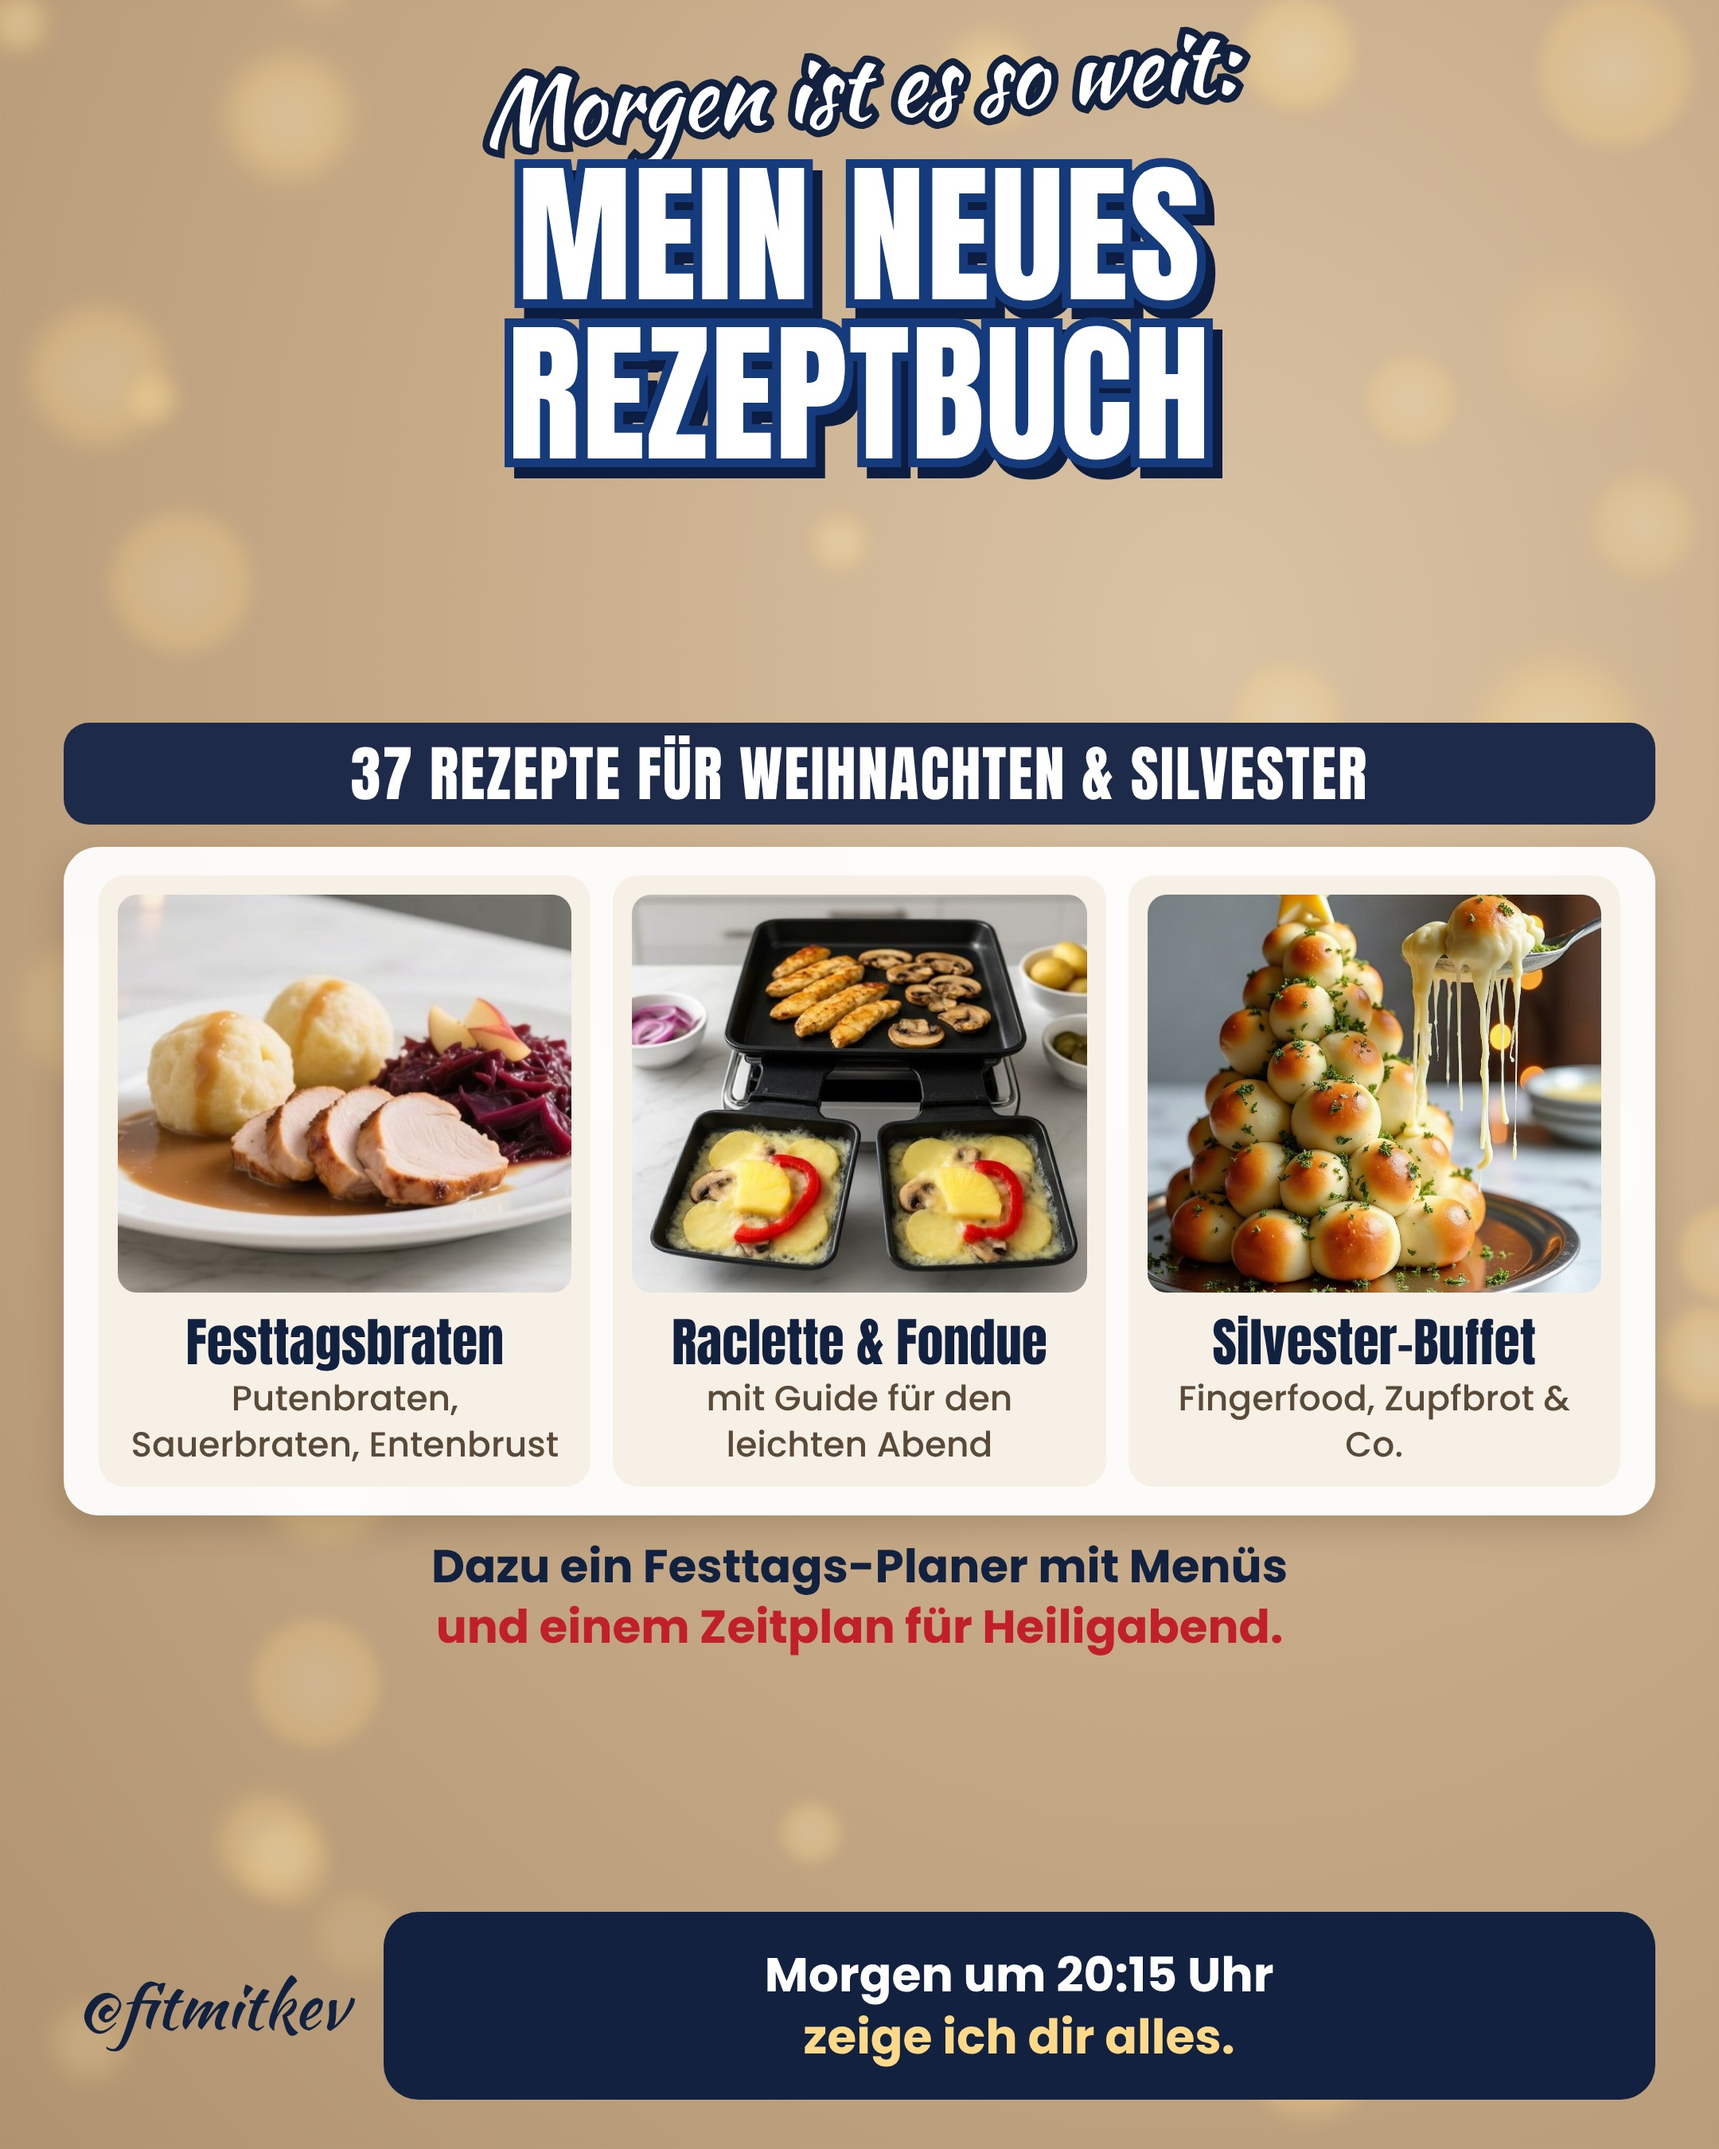
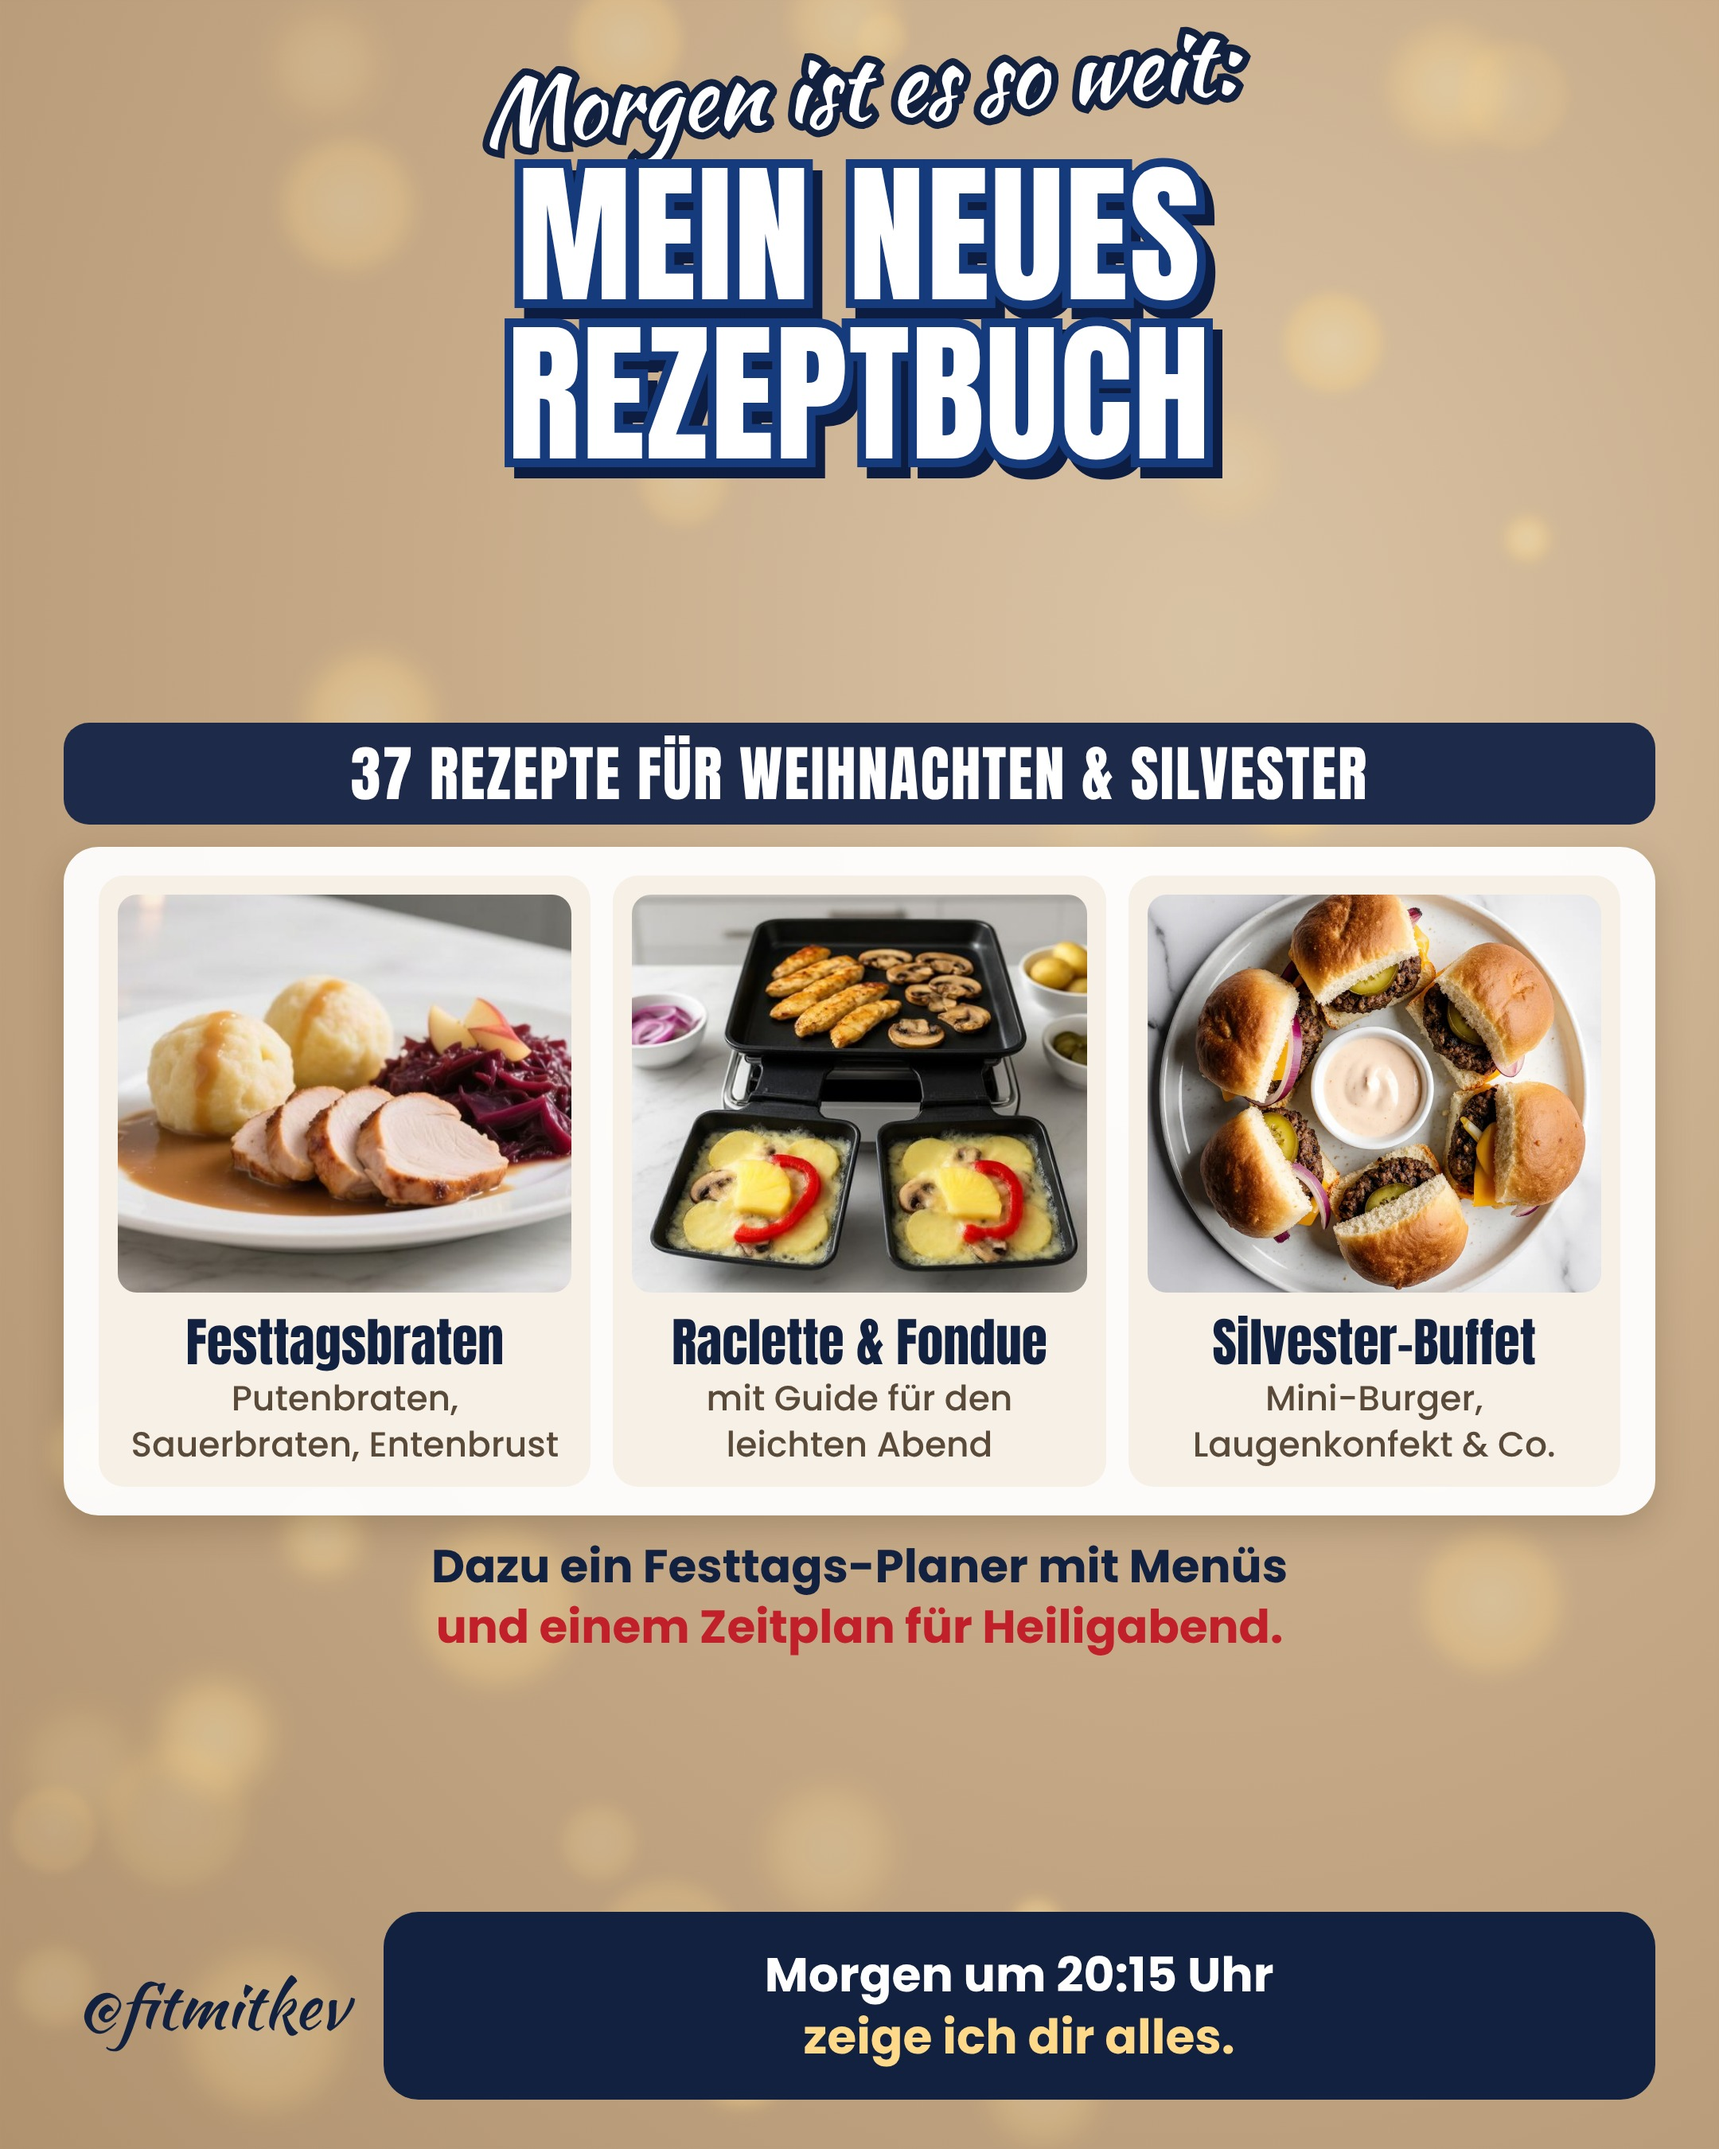
Festtagsküche F1: Silvester-Buffet mit Mini-Burger-Bild statt Käse-Tannenbaum (Kev)
Claude-Session: https://claude.ai/code/session_01AjzXE4axeu25gzBAyxE5iT

diff --git a/tools/promo/festtag_launch.py b/tools/promo/festtag_launch.py
@@ -19,7 +19,7 @@ SPEC = {
    secs=[dict(lab='37 REZEPTE FÜR WEIHNACHTEN & SILVESTER', col=NACHT, type='prod', d=[
       (V + 'festtag-putenbraten.jpg', 'Festtagsbraten', 'Putenbraten, Sauerbraten, Entenbrust'),
       (V + 'festtag-raclette.jpg', 'Raclette & Fondue', 'mit Guide für den leichten Abend'),
-      (A + 'g69_G69KaeseBaum.jpg', 'Silvester-Buffet', 'Fingerfood, Zupfbrot & Co.')])],
+      (A + 'g11_G11Sliders.jpg', 'Silvester-Buffet', 'Mini-Burger, Laugenkonfekt & Co.')])],
    mid='Dazu ein Festtags-Planer mit Menüs<br><span>und einem Zeitplan für Heiligabend.</span>',
    msg='Morgen um 20:15 Uhr<br><span>zeige ich dir alles.</span>',
    css='.pc img{height:250px;width:100%;object-fit:cover;border-radius:12px}.p2{font-size:22px}.msg{font-size:30px;line-height:1.3}'),
